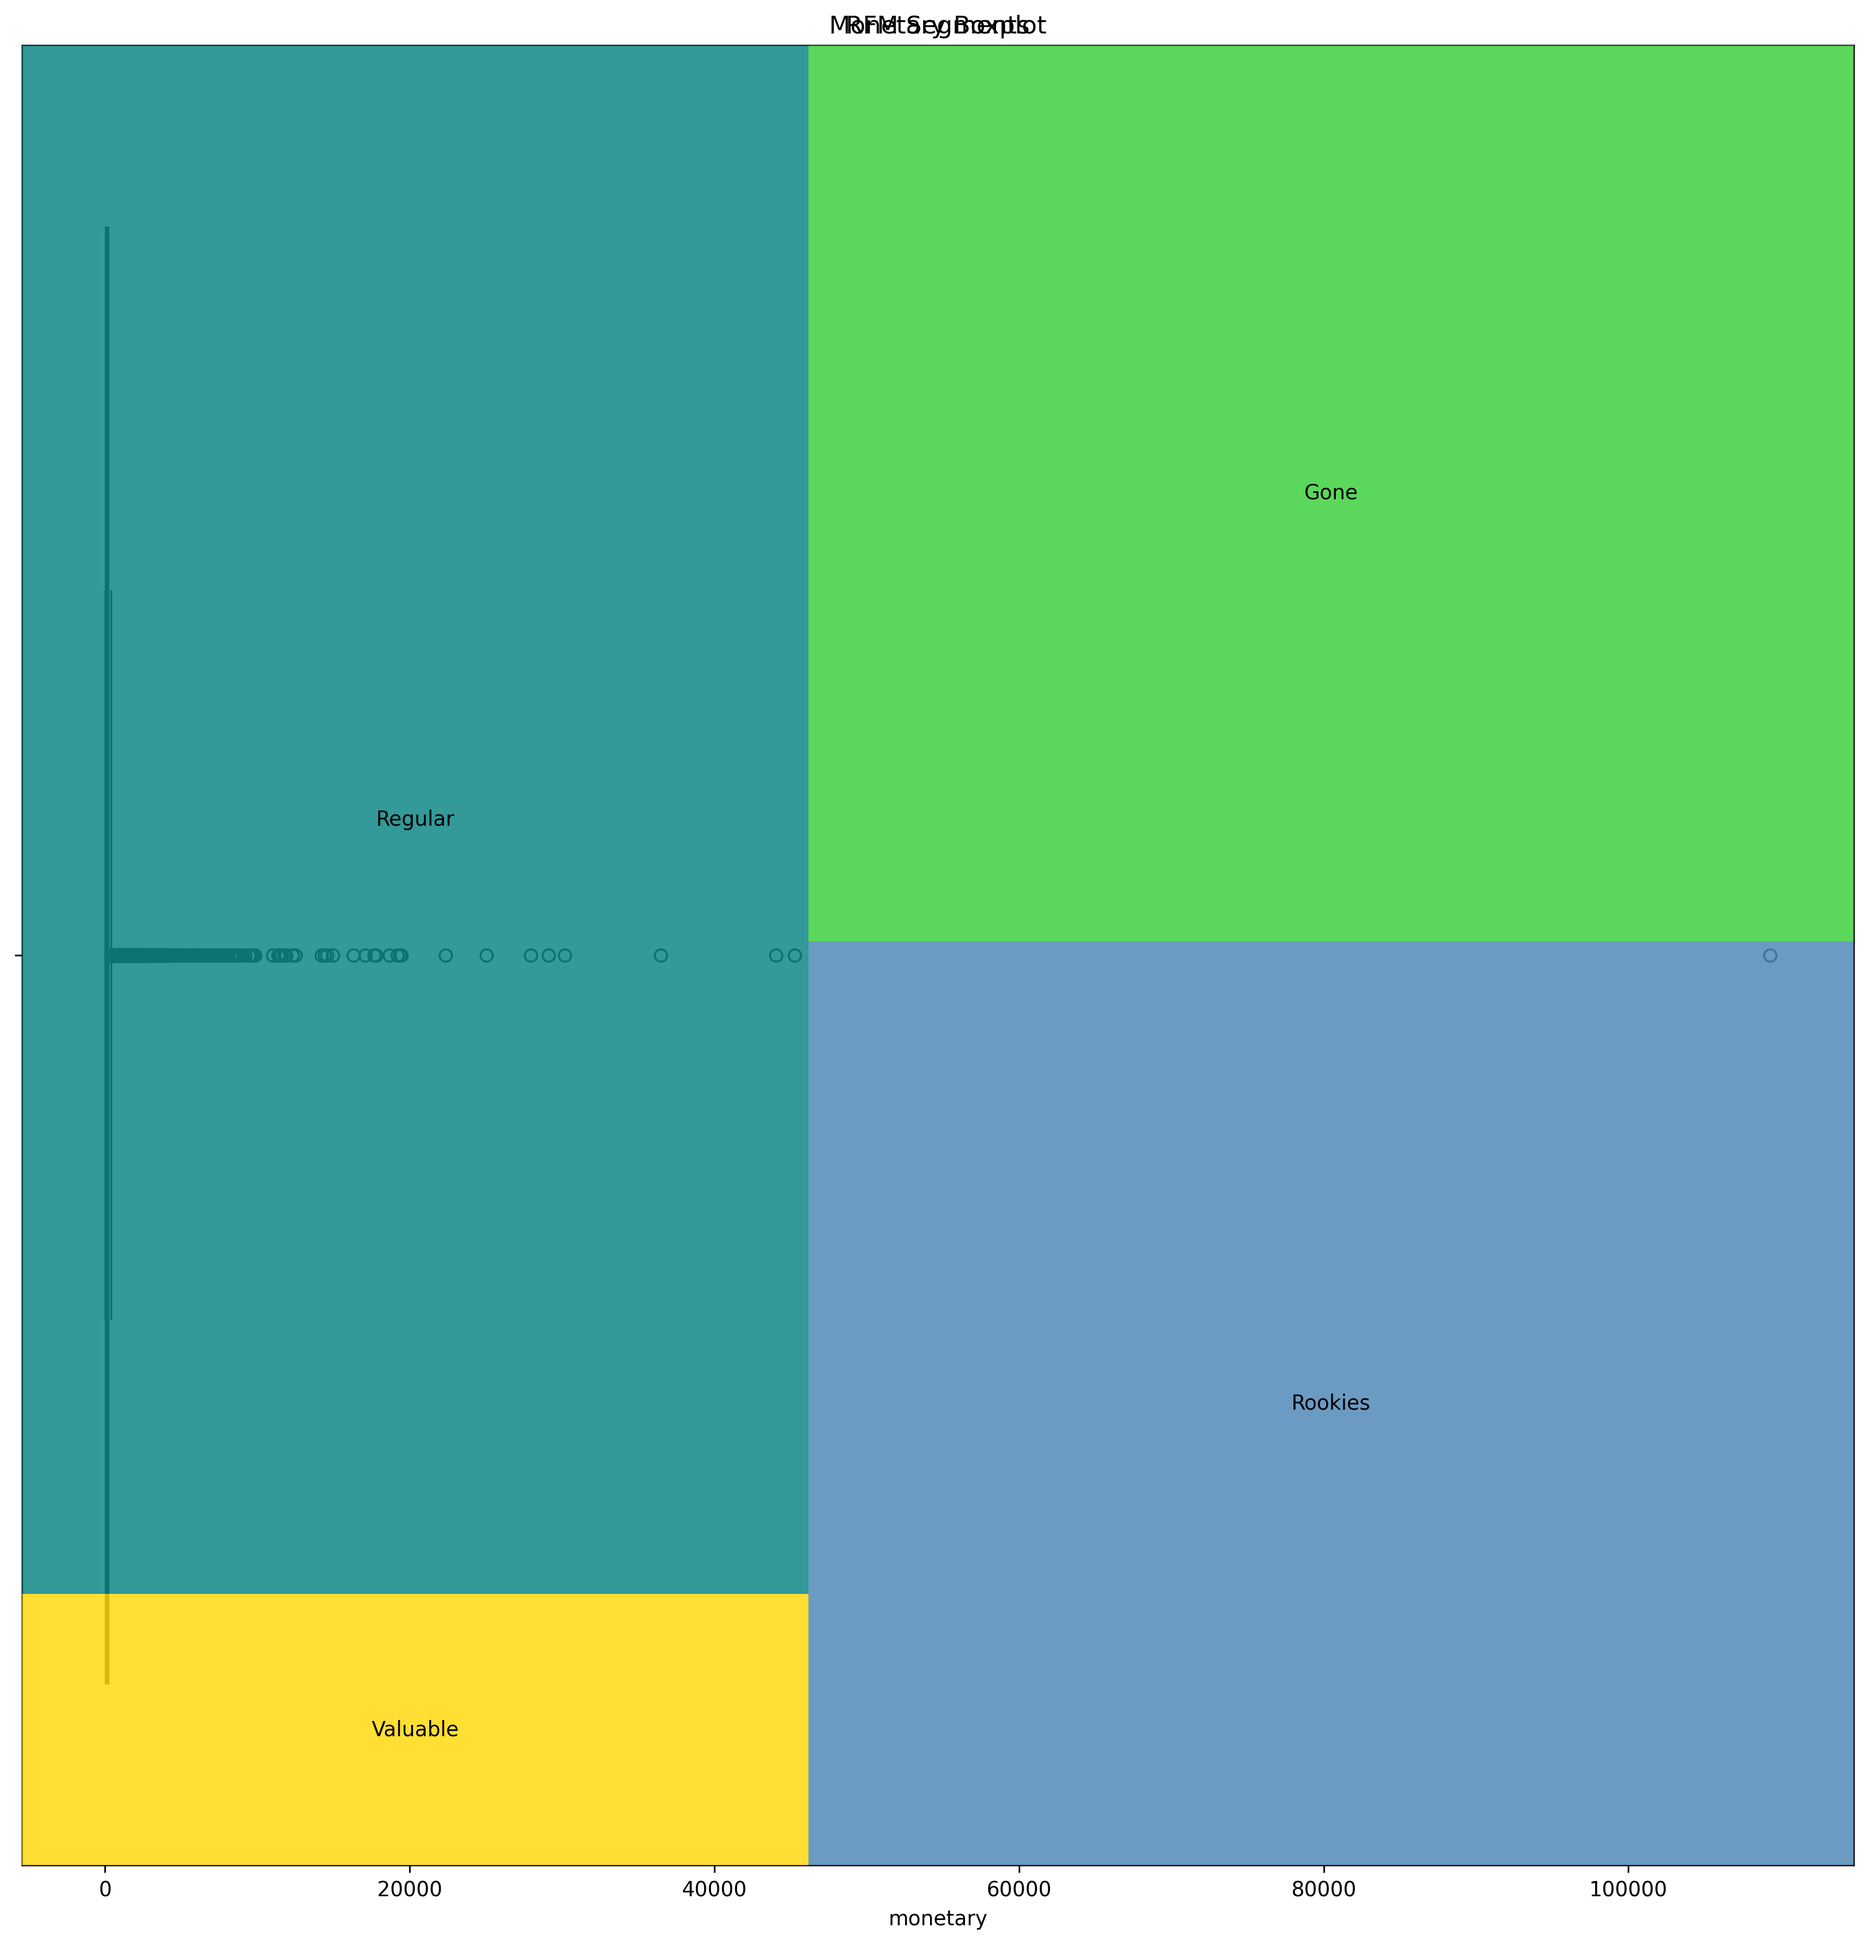
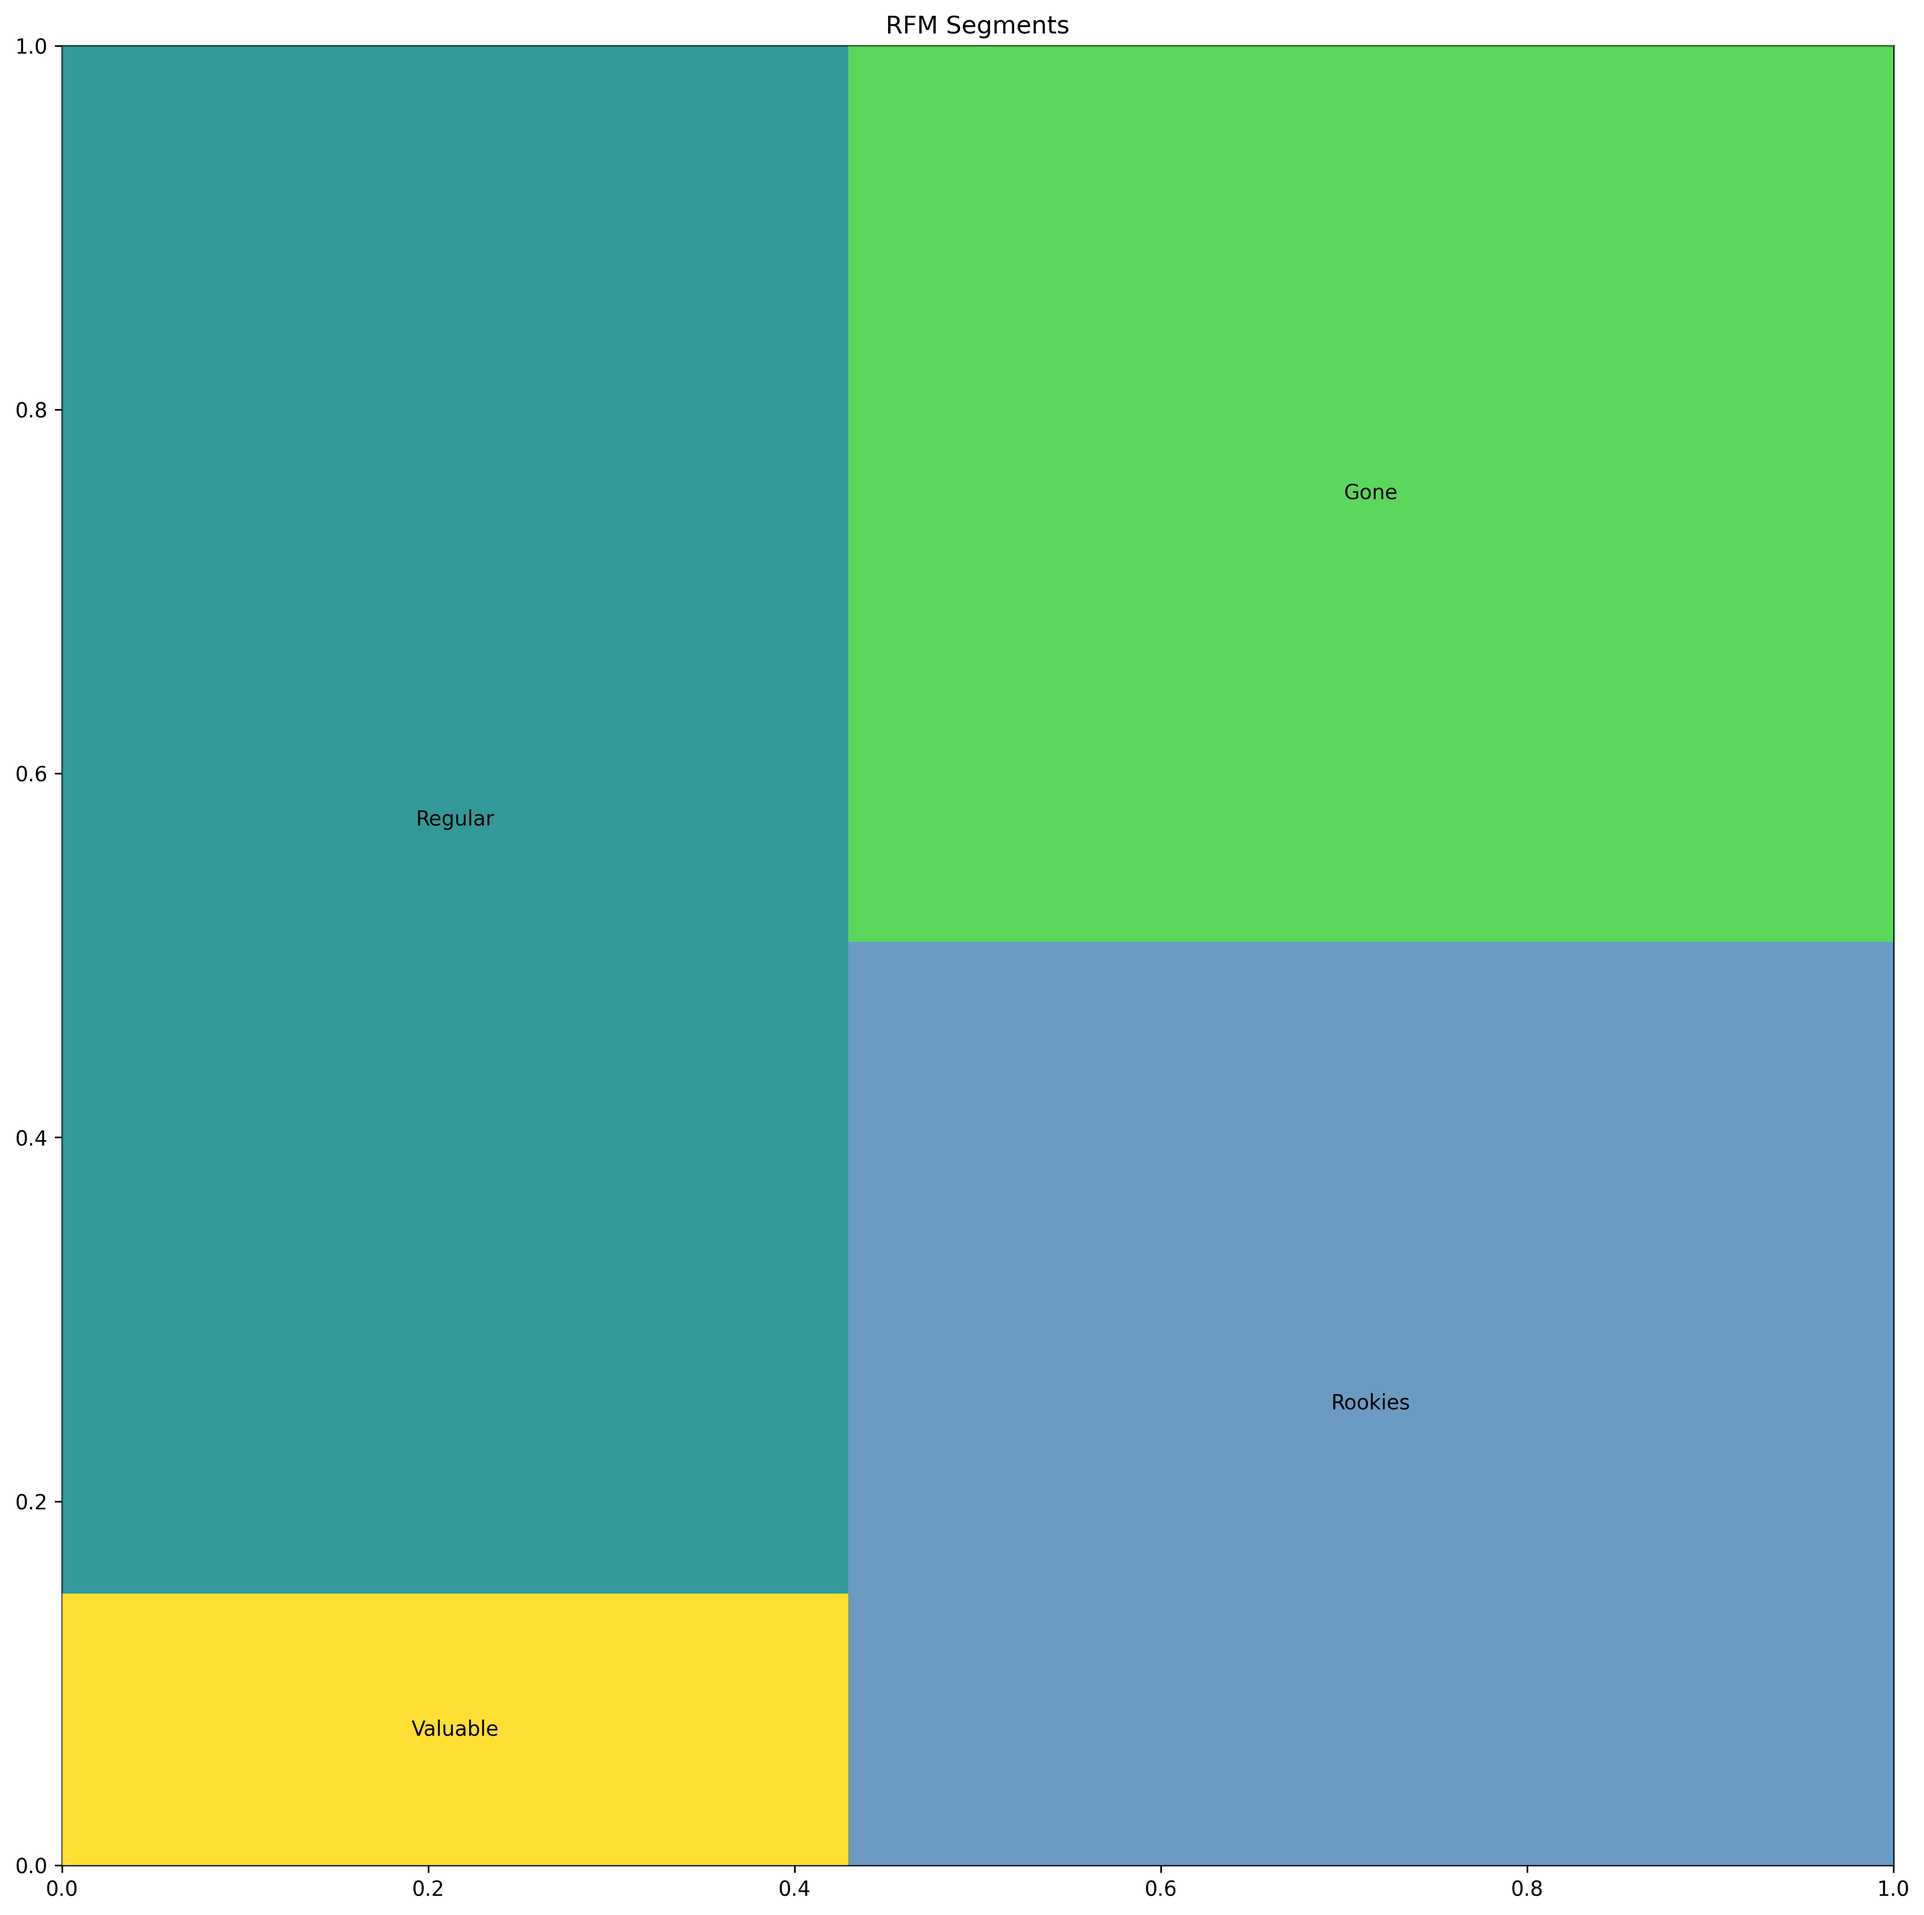
multithreading kproto and fix rfm segment overlap

diff --git a/03-rfm/main.py b/03-rfm/main.py
@@ -47,6 +47,7 @@ sns.boxplot(x='monetary', data=RFM)
 plt.title('Monetary Boxplot')
 # plt.show()
 plt.savefig('monetary_boxplot.png', dpi=300, bbox_inches='tight')
+plt.cla()
 
 RFM['R_Score'] = pd.qcut(RFM['recency'], 3, labels=[1, 2 ,3]).astype(str)
 RFM['M_Score'] = pd.qcut(RFM['monetary'], 3, labels=[1, 2 ,3]).astype(str)

diff --git a/15-final/KPROTO.py b/15-final/KPROTO.py
@@ -14,7 +14,8 @@ class KProto(Mother):
             n_clusters=4, 
             init='Huang', 
             gamma=1.0, 
-            random_state=42
+            random_state=42,
+            n_jobs=-1
         )
         labels = kproto.fit_predict(
             kproto_df, 
